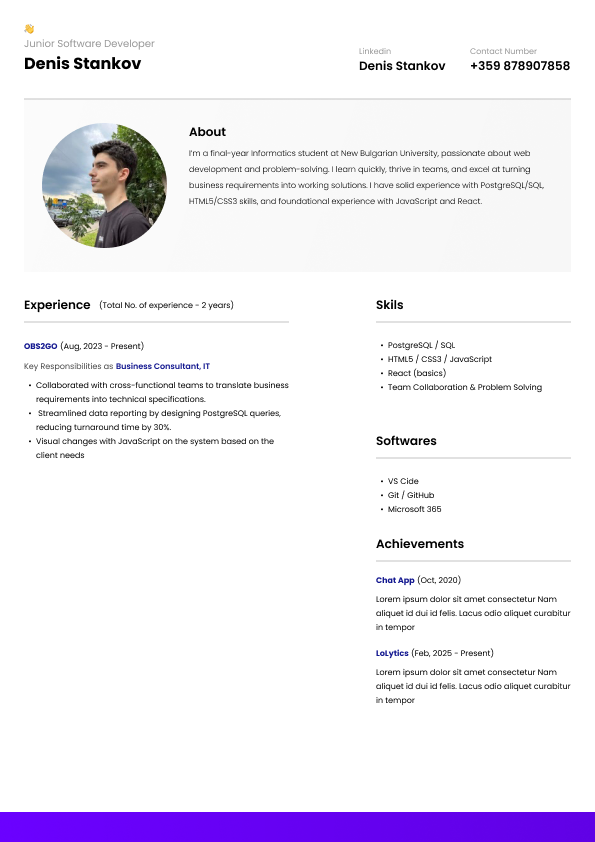
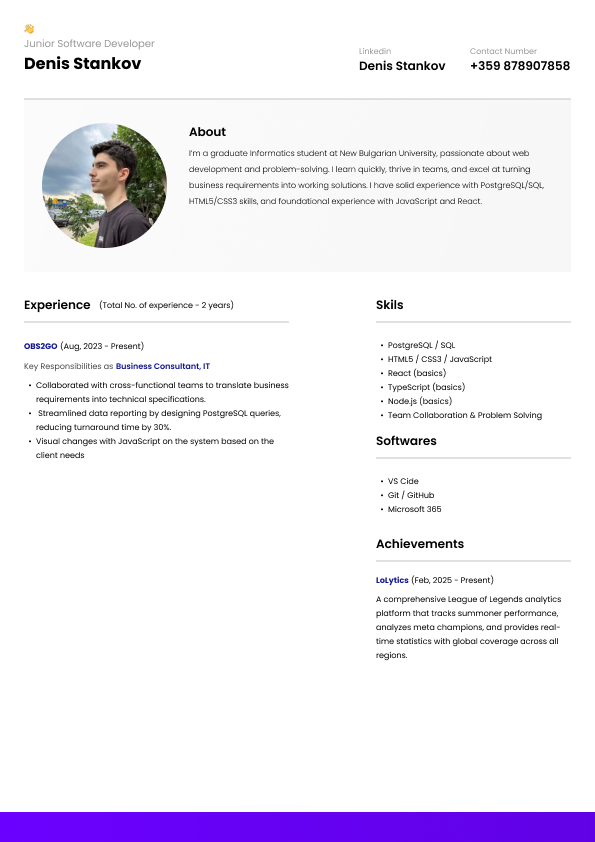
Removal of things

Changed region(s): [[0.6353, 0.6793, 0.9681, 0.8337], [0.363, 0.1544, 0.8773, 0.1853], [0.6353, 0.4323, 0.9076, 0.4941]]

diff --git a/app/page.tsx b/app/page.tsx
@@ -122,23 +122,12 @@ export default function Portfolio() {
     { name: "JavaScript", level: 85, icon: Code, color: "from-yellow-400 to-orange-500" },
     { name: "React", level: 80, icon: Code, color: "from-blue-400 to-cyan-500" },
     { name: "HTML5/CSS3", level: 90, icon: Globe, color: "from-orange-400 to-red-500" },
-    { name: "PostgreSQL", level: 75, icon: Database, color: "from-blue-500 to-indigo-600" },
-    { name: "Git/GitHub", level: 85, icon: Code, color: "from-gray-400 to-gray-600" },
-    { name: "Problem Solving", level: 90, icon: Zap, color: "from-purple-400 to-pink-500" },
+    { name: "PostgreSQL", level: 80, icon: Database, color: "from-blue-500 to-indigo-600" },
+    { name: "Git/GitHub", level: 80, icon: Code, color: "from-gray-400 to-gray-600" },
+    { name: "Node.js", level: 70, icon: Zap, color: "from-purple-400 to-pink-500" },
   ]
 
   const projects = [
-    {
-      title: "Chat App",
-      description:
-        "A real-time chat application built with modern web technologies, featuring instant messaging and user authentication.",
-      image: "/placeholder.svg?height=400&width=600",
-      tags: ["JavaScript", "React", "WebSocket", "CSS3"],
-      live: "#",
-      featured: true,
-      year: "2024-Present",
-      gradient: "from-blue-500 via-purple-500 to-pink-500",
-    },
     {
       title: "LoLytics",
       description:
@@ -328,7 +317,7 @@ export default function Portfolio() {
           </div>
 
           <p className="text-base sm:text-lg md:text-xl text-white/80 mb-8 md:mb-12 max-w-4xl mx-auto leading-relaxed px-4 backdrop-blur-sm bg-white/5 rounded-2xl p-6 border border-white/10">
-            Final-year Informatics student at New Bulgarian University, passionate about web development and
+            Graduate Informatics student at New Bulgarian University, passionate about web development and
             problem-solving. I learn quickly, thrive in teams, and excel at turning business requirements into working
             solutions.
           </p>
